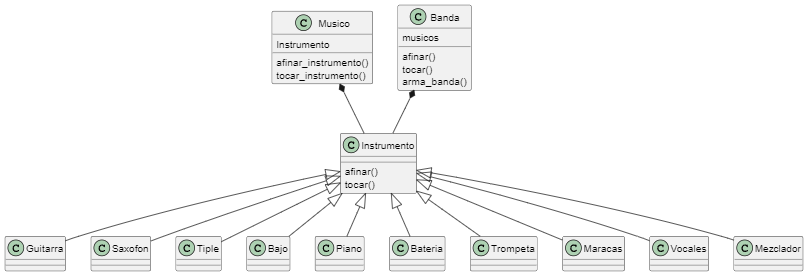
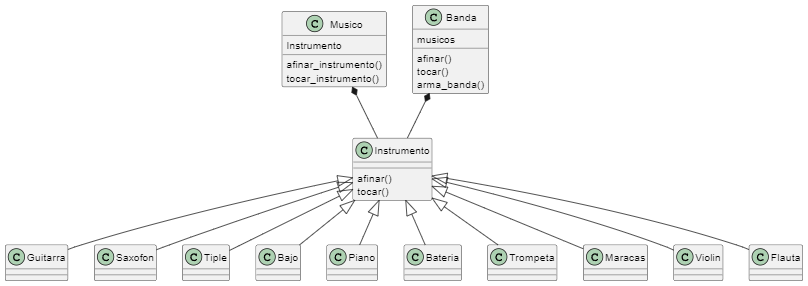
second commit

diff --git a/instrumento.py b/instrumento.py
@@ -1,0 +1,90 @@
+import random
+
+class Instrumento:
+
+    def afinar(self):
+        pass
+
+    def tocar(self):
+        pass
+
+class Guitarra(Instrumento):
+
+    def afinar(self):
+        print("afinando guitarra...")
+
+    def tocar(self):
+        print("tocando guitarra...")
+    
+class Saxofon(Instrumento):
+
+    def afinar(self):
+        print("afinando saxofon...")
+
+    def tocar(self):
+        print("tocando saxofon...")
+    
+class Triple(Instrumento):
+
+    def afinar(self):
+        print("afinando triple...")
+
+    def tocar(self):
+        print("tocando triple...")
+    
+class Bajo(Instrumento):
+
+    def afinar(self):
+        print("afinando bajo...")
+
+    def tocar(self):
+        print("tocando bajo...")
+    
+class Piano(Instrumento):
+
+    def afinar(self):
+        print("afinando piano...")
+
+    def tocar(self):
+        print("tocando piano...")
+    
+class Bateria(Instrumento):
+
+    def afinar(self):
+        print("afinando bateria...")
+
+    def tocar(self):
+        print("tocando bateria...")
+    
+class Trompeta(Instrumento):
+
+    def afinar(self):
+        print("afinando trompeta...")
+
+    def tocar(self):
+        print("tocando trompeta...")
+    
+class Maracas(Instrumento):
+
+    def afinar(self):
+        print("afinando maracas...")
+
+    def tocar(self):
+        print("tocando maracas...")
+    
+class Violin(Instrumento):
+
+    def afinar(self):
+        print("afinando violin...")
+
+    def tocar(self):
+        print("tocando violin...")
+
+class flauta(Instrumento):
+
+    def afinar(self):
+        print("afinando flauta...")
+
+    def tocar(self):
+        print("tocando flauta...")
+    

diff --git a/README.md b/README.md
@@ -11,4 +11,4 @@
 
 __Clases:__
 
-![alt text](image-1.png)
+![alt text](image.png)
